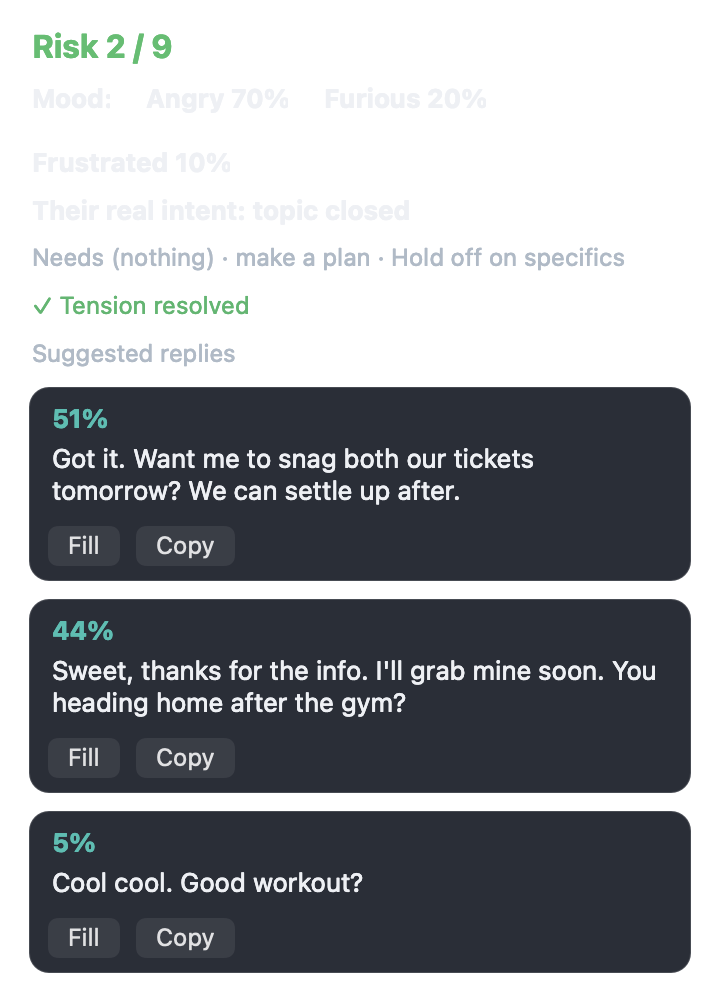
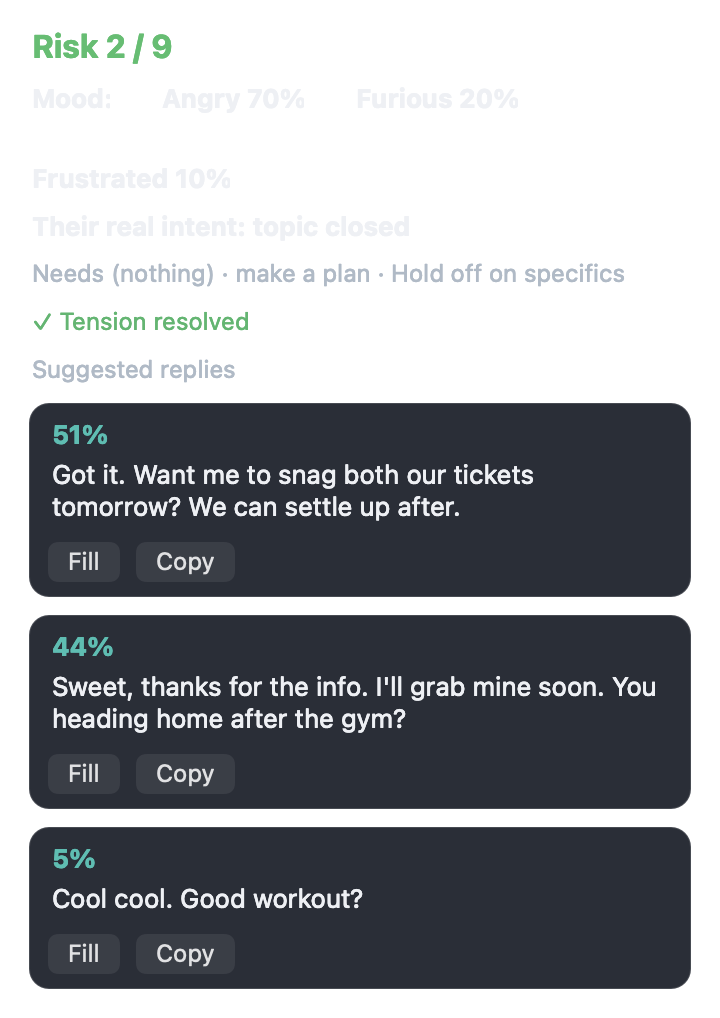
Widen Mac mood chip gaps so the preview shows clear separation.

diff --git a/mac/Sources/JevMac/ReplyPanel.swift b/mac/Sources/JevMac/ReplyPanel.swift
@@ -60,10 +60,11 @@ final class ReplyPanel {
         set(views)
     }
 
-    /// Separate non-wrapping mood chips with ≥16pt gaps — never one clutched string.
+    /// Separate non-wrapping mood chips with ≥16pt visual gaps — never one clutched string.
+    /// Spacing is 24pt so NSTextField alignment insets still leave ≥16pt between glyphs.
     private func moodRow(_ parts: [String]) -> NSView {
         let chips = (["Mood:"] + parts).map { plainLabel($0, bold: true) }
-        return MoodStrip(labels: chips, spacing: 16)
+        return MoodStrip(labels: chips, spacing: 24)
     }
 
     private func replyRow(_ r: RankedReply) -> NSView {
